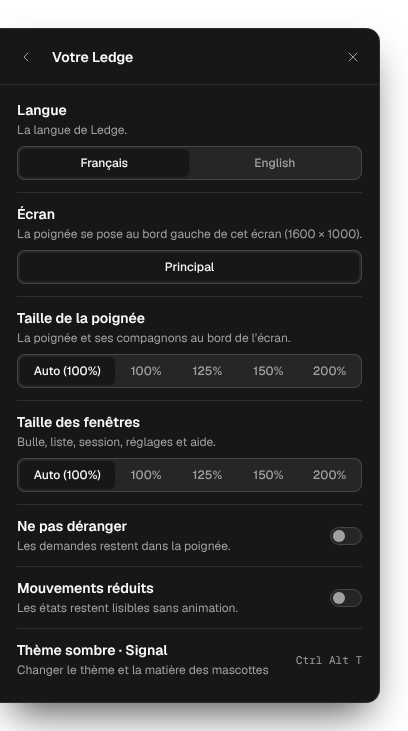
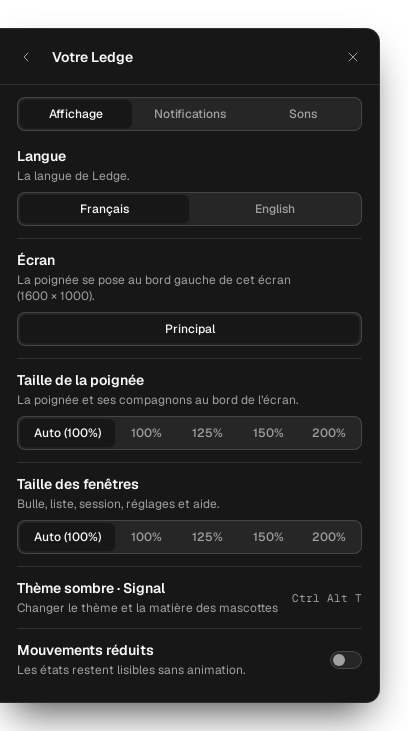
feat(overlay): settings are split into Display, Notifications and Sounds tabs, the last one opened is remembered

diff --git a/apps/overlay/src/surface/SettingsView.tsx b/apps/overlay/src/surface/SettingsView.tsx
@@ -1,10 +1,11 @@
-import type { ReactNode, Ref } from 'react';
+import { useState, type ReactNode, type Ref } from 'react';
 import { transition } from '../motion';
 import { DetailHeader } from './DetailHeader';
 import { UI_SCALES, percent, type ScaleTarget, type UiScale } from '../scale';
 import { useI18n } from '../i18n/lang';
 import { LANGS, type Lang } from '../i18n/messages';
 import { Button } from '../ui/Button';
+import { Tabs, tabIds } from '../ui/Tabs';
 import { CATEGORIES, FINISHED_VALUES, VOLUMES, type FinishedNotify, type SoundPrefs, type SoundPatch } from '../sounds/preferences';
 import { resolveMonitor, type MonitorInfo } from '../monitor';
 
@@ -66,6 +67,14 @@ export function Segmented<T extends string | number>({ name, label, hint, value,
 
 const Row = ({ children }: { children: ReactNode }) => <div style={{ borderBottom: '1px solid var(--sidebar-border)' }}>{children}</div>;
 
+/** The settings sections, one tab each; the last one opened is remembered. */
+export const SETTINGS_TABS = ['display', 'notifications', 'sounds'] as const;
+export type SettingsTab = (typeof SETTINGS_TABS)[number];
+const TAB_KEY = 'ledge.settings.tab';
+const isTab = (v: unknown): v is SettingsTab => (SETTINGS_TABS as readonly unknown[]).includes(v);
+export const loadSettingsTab = (): SettingsTab => { try { const v = localStorage.getItem(TAB_KEY); return isTab(v) ? v : 'display'; } catch { return 'display'; } };
+const saveSettingsTab = (tab: SettingsTab) => { try { localStorage.setItem(TAB_KEY, tab); } catch { /* in-memory only */ } };
+
 /** The Screen group's options: the primary (value `primary`), then the other monitors by their index in the OS order;
  *  a chosen monitor that is not plugged in is one more option, checked, so the choice stays visible. */
 export function monitorOptions(monitors: MonitorInfo[], choice: string | null, t: { primary: string; nth: (n: number) => string; missing: string }): Array<{ value: string; label: string }> {
@@ -84,57 +93,72 @@ export function SettingsView(p: SettingsViewProps) {
   const choice = p.monitor ?? null;
   const chosen = resolveMonitor(choice, monitors);
   const chosenValue = choice !== null && !monitors.some(m => m.id === choice) ? choice : chosen && !chosen.primary ? chosen.id : 'primary';
+  const [tab, setTab] = useState<SettingsTab>(loadSettingsTab);
+  const chooseTab = (next: SettingsTab) => { setTab(next); saveSettingsTab(next); };
+  const tabLabel = { display: t.settings.tabDisplay, notifications: t.settings.tabNotifications, sounds: t.settings.tabSounds } as const;
+  const { tabId, panelId } = tabIds('ledge-settings', tab);
   return (
     <div data-layer="settings" data-delay={enterDelay} inert={!p.visible} style={{ position: 'absolute', inset: 0, display: 'flex', flexDirection: 'column', opacity: p.visible ? 1 : 0, pointerEvents: p.visible ? 'auto' : 'none', transition: transition([['opacity', p.visible ? 'fadeIn' : 'fadeOut', p.visible ? enterDelay : 0]]) }}>
       <DetailHeader title={t.settings.title} onBack={p.onBack} onClose={p.onClose} />
       <div className="ledge-scroll" style={{ overflowY: 'auto', minHeight: 0, overscrollBehavior: 'contain' }}>
-        <div ref={p.contentRef} style={{ display: 'flex', flexDirection: 'column', padding: '4px 17px 12px' }}>
-          <Row><Segmented name="ledge-lang" label={t.lang.label} hint={t.lang.hint} value={lang} onChange={p.onLang} options={LANGS.map(l => ({ value: l, label: t.lang[l] }))} /></Row>
-          {monitors.length > 0 && (
-            <Row><Segmented name="ledge-monitor" label={t.settings.screen} hint={chosen ? t.settings.screenHint(chosen.width, chosen.height) : t.settings.screenHintNone} value={chosenValue}
-              onChange={p.onMonitor ? v => p.onMonitor!(v === 'primary' ? null : v) : undefined}
-              options={monitorOptions(monitors, choice, { primary: t.settings.screenPrimary, nth: t.settings.screenNth, missing: t.settings.screenMissing })} /></Row>
-          )}
-          {(['handle', 'panel'] as const).map(target => (
-            <Row key={target}><Segmented<UiScale> name={`ledge-${target}-scale`} label={target === 'handle' ? t.settings.handleSize : t.settings.windowSize} hint={target === 'handle' ? t.settings.handleSizeHint : t.settings.windowSizeHint}
-              value={p.scales?.[target] ?? 'auto'} onChange={p.onScale ? s => p.onScale!(target, s) : undefined}
-              options={UI_SCALES.map(s => ({ value: s, label: s === 'auto' ? t.settings.auto(percent(p.autoScales?.[target] ?? 1)) : percent(s), wide: s === 'auto' }))} /></Row>
-          ))}
-          <Row><Switch label={t.settings.dnd} hint={t.settings.dndHint} checked={p.dnd} onChange={on => { if (on !== p.dnd) p.onToggleDnd(); }} /></Row>
-          <Row><Switch label={t.settings.reduced} hint={t.settings.reducedHint} checked={p.reduced} onChange={p.onReduced} /></Row>
-          {p.osReduced && !p.reduced && <span style={{ fontSize: 12, lineHeight: '16px', color: 'var(--muted-foreground)', padding: '8px 0' }}>{t.settings.osReduced}</span>}
-          <Row><Segmented<FinishedNotify> name="ledge-finished" label={t.settings.finished} hint={t.settings.finishedHint} value={p.finished} onChange={p.onFinished}
-            options={FINISHED_VALUES.map(v => ({ value: v, label: { both: t.settings.finishedBoth, bubble: t.settings.finishedBubble, sound: t.settings.finishedSound, none: t.settings.finishedNone }[v], wide: v === 'both' }))} /></Row>
-          <Row><Switch label={t.settings.sounds} hint={t.settings.soundsHint} checked={p.sounds.enabled} onChange={on => p.onSounds({ enabled: on })} /></Row>
-          <div data-testid="sound-sections" style={{ opacity: p.sounds.enabled ? 1 : 0.5, transition: transition([['opacity', 'hover']]) }}>
-            <Row>
-              <div style={{ display: 'flex', alignItems: 'flex-end', gap: 8 }}>
-                <div style={{ flexGrow: 1 }}><Segmented name="ledge-volume" label={t.settings.volume} hint={t.settings.volumeHint} value={p.sounds.volume} onChange={v => p.onSounds({ volume: v })}
-                  options={VOLUMES.map(v => ({ value: v, label: { quiet: t.settings.volumeQuiet, normal: t.settings.volumeNormal, loud: t.settings.volumeLoud }[v] }))} /></div>
-                <Button variant="outline" size="sm" onClick={p.onTestSound}>{t.settings.test}</Button>
+        <div ref={p.contentRef} style={{ display: 'flex', flexDirection: 'column', padding: '12px 17px 12px' }}>
+          <Tabs<SettingsTab> id="ledge-settings" label={t.settings.tabs} value={tab} onChange={chooseTab} tabs={SETTINGS_TABS.map(v => ({ value: v, label: tabLabel[v] }))} />
+          <div role="tabpanel" id={panelId} aria-labelledby={tabId} style={{ display: 'flex', flexDirection: 'column', marginTop: 4 }}>
+            {tab === 'display' && <>
+              <Row><Segmented name="ledge-lang" label={t.lang.label} hint={t.lang.hint} value={lang} onChange={p.onLang} options={LANGS.map(l => ({ value: l, label: t.lang[l] }))} /></Row>
+              {monitors.length > 0 && (
+                <Row><Segmented name="ledge-monitor" label={t.settings.screen} hint={chosen ? t.settings.screenHint(chosen.width, chosen.height) : t.settings.screenHintNone} value={chosenValue}
+                  onChange={p.onMonitor ? v => p.onMonitor!(v === 'primary' ? null : v) : undefined}
+                  options={monitorOptions(monitors, choice, { primary: t.settings.screenPrimary, nth: t.settings.screenNth, missing: t.settings.screenMissing })} /></Row>
+              )}
+              {(['handle', 'panel'] as const).map(target => (
+                <Row key={target}><Segmented<UiScale> name={`ledge-${target}-scale`} label={target === 'handle' ? t.settings.handleSize : t.settings.windowSize} hint={target === 'handle' ? t.settings.handleSizeHint : t.settings.windowSizeHint}
+                  value={p.scales?.[target] ?? 'auto'} onChange={p.onScale ? s => p.onScale!(target, s) : undefined}
+                  options={UI_SCALES.map(s => ({ value: s, label: s === 'auto' ? t.settings.auto(percent(p.autoScales?.[target] ?? 1)) : percent(s), wide: s === 'auto' }))} /></Row>
+              ))}
+              <Row>
+                <button type="button" onClick={p.onToggleTheme} disabled={!p.onToggleTheme} style={{ display: 'flex', alignItems: 'center', gap: 12, width: '100%', padding: '12px 0', background: 'transparent', border: 'none', color: 'inherit', textAlign: 'left', cursor: 'pointer' }}>
+                  <span style={{ display: 'flex', flexDirection: 'column', gap: 3, flexGrow: 1 }}>
+                    <span style={{ fontSize: 14, lineHeight: '18px', fontWeight: 600 }}>{light ? t.settings.themeLight : t.settings.themeDark}</span>
+                    <span style={{ fontSize: 12, lineHeight: '16px', color: 'var(--muted-foreground)' }}>{t.settings.themeHint}</span>
+                  </span>
+                  <span className="mono" style={{ fontSize: 11, color: 'var(--muted-foreground)' }}>Ctrl Alt T</span>
+                </button>
+              </Row>
+              <Switch label={t.settings.reduced} hint={t.settings.reducedHint} checked={p.reduced} onChange={p.onReduced} />
+              {p.osReduced && !p.reduced && <span style={{ fontSize: 12, lineHeight: '16px', color: 'var(--muted-foreground)', padding: '0 0 8px' }}>{t.settings.osReduced}</span>}
+            </>}
+            {tab === 'notifications' && <>
+              <Row><Switch label={t.settings.dnd} hint={t.settings.dndHint} checked={p.dnd} onChange={on => { if (on !== p.dnd) p.onToggleDnd(); }} /></Row>
+              <Segmented<FinishedNotify> name="ledge-finished" label={t.settings.finished} hint={t.settings.finishedHint} value={p.finished} onChange={p.onFinished}
+                options={FINISHED_VALUES.map(v => ({ value: v, label: { both: t.settings.finishedBoth, bubble: t.settings.finishedBubble, sound: t.settings.finishedSound, none: t.settings.finishedNone }[v], wide: v === 'both' }))} />
+            </>}
+            {tab === 'sounds' && <>
+              <Row><Switch label={t.settings.sounds} hint={t.settings.soundsHint} checked={p.sounds.enabled} onChange={on => p.onSounds({ enabled: on })} /></Row>
+              <div data-testid="sound-sections" style={{ opacity: p.sounds.enabled ? 1 : 0.5, transition: transition([['opacity', 'hover']]) }}>
+                <Row>
+                  <div style={{ display: 'flex', alignItems: 'flex-end', gap: 8 }}>
+                    <div style={{ flexGrow: 1 }}><Segmented name="ledge-volume" label={t.settings.volume} hint={t.settings.volumeHint} value={p.sounds.volume} onChange={v => p.onSounds({ volume: v })}
+                      options={VOLUMES.map(v => ({ value: v, label: { quiet: t.settings.volumeQuiet, normal: t.settings.volumeNormal, loud: t.settings.volumeLoud }[v] }))} /></div>
+                    <Button variant="outline" size="sm" onClick={p.onTestSound}>{t.settings.test}</Button>
+                  </div>
+                </Row>
+                <Row>
+                  <fieldset style={{ margin: 0, padding: 0, border: 'none' }}>
+                    <legend style={{ padding: '12px 0 4px', fontSize: 14, lineHeight: '18px', fontWeight: 600 }}>{t.settings.playWhen}</legend>
+                    {CATEGORIES.map(c => (
+                      <label key={c} style={{ display: 'flex', alignItems: 'center', gap: 10, height: 32, fontSize: 13, cursor: 'pointer' }}>
+                        <input type="checkbox" checked={p.sounds.categories[c]} onChange={e => p.onSounds({ categories: { [c]: e.target.checked } })} style={{ margin: 0, width: 16, height: 16, accentColor: 'var(--sidebar-primary)' }} />
+                        {t.settings.category[c]}
+                      </label>
+                    ))}
+                  </fieldset>
+                </Row>
+                <Switch label={t.settings.behind} hint={t.settings.behindHint} checked={p.sounds.onlyWhenTerminalBehind} onChange={on => p.onSounds({ onlyWhenTerminalBehind: on })} />
+                <span style={{ display: 'block', fontSize: 12, lineHeight: '16px', color: 'var(--muted-foreground)', padding: '0 0 8px' }}>{t.settings.soundsNote}</span>
               </div>
-            </Row>
-            <Row>
-              <fieldset style={{ margin: 0, padding: 0, border: 'none' }}>
-                <legend style={{ padding: '12px 0 4px', fontSize: 14, lineHeight: '18px', fontWeight: 600 }}>{t.settings.playWhen}</legend>
-                {CATEGORIES.map(c => (
-                  <label key={c} style={{ display: 'flex', alignItems: 'center', gap: 10, height: 32, fontSize: 13, cursor: 'pointer' }}>
-                    <input type="checkbox" checked={p.sounds.categories[c]} onChange={e => p.onSounds({ categories: { [c]: e.target.checked } })} style={{ margin: 0, width: 16, height: 16, accentColor: 'var(--sidebar-primary)' }} />
-                    {t.settings.category[c]}
-                  </label>
-                ))}
-              </fieldset>
-            </Row>
-            <Row><Switch label={t.settings.behind} hint={t.settings.behindHint} checked={p.sounds.onlyWhenTerminalBehind} onChange={on => p.onSounds({ onlyWhenTerminalBehind: on })} /></Row>
-            <span style={{ display: 'block', fontSize: 12, lineHeight: '16px', color: 'var(--muted-foreground)', padding: '8px 0' }}>{t.settings.soundsNote}</span>
+            </>}
           </div>
-          <button type="button" onClick={p.onToggleTheme} disabled={!p.onToggleTheme} style={{ display: 'flex', alignItems: 'center', gap: 12, padding: '12px 0', background: 'transparent', border: 'none', color: 'inherit', textAlign: 'left', cursor: 'pointer' }}>
-            <span style={{ display: 'flex', flexDirection: 'column', gap: 3, flexGrow: 1 }}>
-              <span style={{ fontSize: 14, lineHeight: '18px', fontWeight: 600 }}>{light ? t.settings.themeLight : t.settings.themeDark}</span>
-              <span style={{ fontSize: 12, lineHeight: '16px', color: 'var(--muted-foreground)' }}>{t.settings.themeHint}</span>
-            </span>
-            <span className="mono" style={{ fontSize: 11, color: 'var(--muted-foreground)' }}>Ctrl Alt T</span>
-          </button>
         </div>
       </div>
     </div>

diff --git a/apps/overlay/test/settings.test.tsx b/apps/overlay/test/settings.test.tsx
@@ -1,5 +1,5 @@
 import { describe, it, expect, vi, beforeEach } from 'vitest';
-import { render, screen, fireEvent } from '@testing-library/react';
+import { render, screen, fireEvent, cleanup } from '@testing-library/react';
 import { SettingsView } from '../src/surface/SettingsView';
 import { LangProvider } from '../src/i18n/lang';
 import { DEFAULT_SOUNDS, type SoundPatch } from '../src/sounds/preferences';
@@ -11,16 +11,56 @@ const view = (extra = {}) => {
   return { onFinished, onSounds, onTestSound };
 };
 
+const tab = (name: string) => fireEvent.click(screen.getByRole('tab', { name }));
+
+describe('<SettingsView> tabs', () => {
+  beforeEach(() => localStorage.clear());
+  it('opens on Display: language, screen sizes, theme and motion; the other groups wait in their tabs', () => {
+    view();
+    expect(screen.getByRole('tab', { name: 'Display' })).toHaveAttribute('aria-selected', 'true');
+    const panel = screen.getByRole('tabpanel', { name: 'Display' });
+    expect(panel).toHaveAttribute('id', 'ledge-settings-panel-display');
+    expect(screen.getByRole('group', { name: 'Language' })).toBeInTheDocument();
+    expect(screen.getByRole('group', { name: 'Handle size' })).toBeInTheDocument();
+    expect(screen.getByRole('button', { name: /theme/ })).toBeInTheDocument();
+    expect(screen.getByRole('switch', { name: 'Reduced motion' })).toBeInTheDocument();
+    expect(screen.queryByRole('switch', { name: 'Do not disturb' })).toBeNull();
+    expect(screen.queryByRole('switch', { name: 'Sounds' })).toBeNull();
+    tab('Notifications');
+    expect(screen.getByRole('switch', { name: 'Do not disturb' })).toBeInTheDocument();
+    expect(screen.getByRole('group', { name: 'When a bot finishes' })).toBeInTheDocument();
+    expect(screen.queryByRole('group', { name: 'Language' })).toBeNull();
+    tab('Sounds');
+    expect(screen.getByRole('switch', { name: 'Sounds' })).toBeInTheDocument();
+    expect(screen.getByRole('button', { name: 'Test' })).toBeInTheDocument();
+    expect(screen.queryByRole('switch', { name: 'Do not disturb' })).toBeNull();
+  });
+  it('the chosen tab is remembered for the next opening; a stale value falls back to Display', () => {
+    view();
+    tab('Sounds');
+    expect(localStorage.getItem('ledge.settings.tab')).toBe('sounds');
+    cleanup();
+    view();
+    expect(screen.getByRole('tab', { name: 'Sounds' })).toHaveAttribute('aria-selected', 'true');
+    cleanup();
+    localStorage.setItem('ledge.settings.tab', 'nope');
+    view();
+    expect(screen.getByRole('tab', { name: 'Display' })).toHaveAttribute('aria-selected', 'true');
+  });
+});
+
 describe('<SettingsView> notifications and sounds', () => {
   beforeEach(() => localStorage.clear());
   it('offers the four finished modes and reports a choice', () => {
     const { onFinished } = view();
+    tab('Notifications');
     expect(screen.getByRole('radio', { name: 'Bubble and sound' })).toBeChecked();
     fireEvent.click(screen.getByRole('radio', { name: 'Handle only' }));
     expect(onFinished).toHaveBeenCalledWith('none');
   });
   it('the Sounds switch, the volume, the categories and the terminal rule each send one patch', () => {
     const { onSounds, onTestSound } = view();
+    tab('Sounds');
     fireEvent.click(screen.getByRole('switch', { name: 'Sounds' }));
     expect(onSounds).toHaveBeenLastCalledWith({ enabled: false });
     fireEvent.click(screen.getByRole('radio', { name: 'Loud' }));
@@ -34,6 +74,7 @@ describe('<SettingsView> notifications and sounds', () => {
   });
   it('with sounds off the sound sections are dimmed but still reachable', () => {
     view({ sounds: { ...DEFAULT_SOUNDS, enabled: false } });
+    tab('Sounds');
     expect(screen.getByTestId('sound-sections')).toHaveStyle({ opacity: '0.5' });
     expect(screen.getByRole('radio', { name: 'Loud' })).not.toBeDisabled();
   });

diff --git a/apps/overlay/test/tabs.test.tsx b/apps/overlay/test/tabs.test.tsx
@@ -1,0 +1,53 @@
+import { describe, it, expect, vi } from 'vitest';
+import { render, screen, fireEvent } from '@testing-library/react';
+import { Tabs } from '../src/ui/Tabs';
+
+const TABS = [{ value: 'a', label: 'Alpha' }, { value: 'b', label: 'Beta' }, { value: 'c', label: 'Gamma' }] as const;
+type V = (typeof TABS)[number]['value'];
+const view = (value: V = 'a') => {
+  const onChange = vi.fn<(v: V) => void>();
+  render(<Tabs<V> id="t" label="Sections" value={value} tabs={TABS} onChange={onChange} />);
+  return onChange;
+};
+
+describe('<Tabs>', () => {
+  it('is a labelled tablist whose selected tab alone is in the tab order and points at its panel', () => {
+    view('b');
+    expect(screen.getByRole('tablist', { name: 'Sections' })).toBeInTheDocument();
+    const beta = screen.getByRole('tab', { name: 'Beta' });
+    expect(beta).toHaveAttribute('aria-selected', 'true');
+    expect(beta).toHaveAttribute('tabindex', '0');
+    expect(beta).toHaveAttribute('id', 't-tab-b');
+    expect(beta).toHaveAttribute('aria-controls', 't-panel-b');
+    expect(screen.getByRole('tab', { name: 'Alpha' })).toHaveAttribute('tabindex', '-1');
+    expect(screen.getByRole('tab', { name: 'Alpha' })).toHaveAttribute('aria-selected', 'false');
+  });
+  it('a click chooses a tab', () => {
+    const onChange = view();
+    fireEvent.click(screen.getByRole('tab', { name: 'Gamma' }));
+    expect(onChange).toHaveBeenCalledWith('c');
+  });
+  it('arrows move and wrap, Home and End jump; the newly chosen tab takes focus', () => {
+    const onChange = view('a');
+    const alpha = screen.getByRole('tab', { name: 'Alpha' });
+    alpha.focus();
+    fireEvent.keyDown(alpha, { key: 'ArrowRight' });
+    expect(onChange).toHaveBeenLastCalledWith('b');
+    expect(document.activeElement).toBe(screen.getByRole('tab', { name: 'Beta' }));
+    fireEvent.keyDown(alpha, { key: 'ArrowLeft' });
+    expect(onChange).toHaveBeenLastCalledWith('c');
+    fireEvent.keyDown(alpha, { key: 'End' });
+    expect(onChange).toHaveBeenLastCalledWith('c');
+    fireEvent.keyDown(screen.getByRole('tab', { name: 'Gamma' }), { key: 'ArrowRight' });
+    expect(onChange).toHaveBeenLastCalledWith('a');
+    fireEvent.keyDown(alpha, { key: 'Home' });
+    expect(onChange).toHaveBeenLastCalledWith('a');
+    expect(onChange).toHaveBeenCalledTimes(5);
+  });
+  it('other keys are left alone', () => {
+    const onChange = view();
+    fireEvent.keyDown(screen.getByRole('tab', { name: 'Alpha' }), { key: 'Tab' });
+    fireEvent.keyDown(screen.getByRole('tab', { name: 'Alpha' }), { key: 'ArrowDown' });
+    expect(onChange).not.toHaveBeenCalled();
+  });
+});

diff --git a/apps/overlay/src/ui/Tabs.tsx b/apps/overlay/src/ui/Tabs.tsx
@@ -1,0 +1,33 @@
+import { transition } from '../motion';
+
+export interface TabItem<T extends string> { value: T; label: string }
+
+/** The ids a tab and its panel share: the panel renders with `id={panelId}` and `aria-labelledby={tabId}`. */
+export const tabIds = (id: string, value: string) => ({ tabId: `${id}-tab-${value}`, panelId: `${id}-panel-${value}` });
+
+/** A row of tabs in the segmented look (Settings): one tab in the tab order, Left/Right wrap, Home/End jump, and a
+ *  tab chosen from the keyboard takes focus. The caller renders the chosen panel with `tabIds`. */
+export function Tabs<T extends string>({ id, label, value, tabs, onChange }: { id: string; label: string; value: T; tabs: ReadonlyArray<TabItem<T>>; onChange: (v: T) => void }) {
+  const choose = (v: T) => { onChange(v); document.getElementById(tabIds(id, v).tabId)?.focus(); };
+  const onKeyDown = (e: React.KeyboardEvent, i: number) => {
+    const n = tabs.length;
+    const to = e.key === 'ArrowRight' ? (i + 1) % n : e.key === 'ArrowLeft' ? (i + n - 1) % n : e.key === 'Home' ? 0 : e.key === 'End' ? n - 1 : -1;
+    if (to < 0) return;
+    e.preventDefault();
+    choose(tabs[to]!.value);
+  };
+  return (
+    <div role="tablist" aria-label={label} style={{ display: 'flex', padding: 2, gap: 2, borderRadius: 'var(--radius-md)', background: 'var(--muted)', border: '1px solid var(--input)' }}>
+      {tabs.map((tab, i) => {
+        const on = tab.value === value;
+        const { tabId, panelId } = tabIds(id, tab.value);
+        return (
+          <button key={tab.value} type="button" role="tab" id={tabId} aria-selected={on} aria-controls={panelId} tabIndex={on ? 0 : -1} onClick={() => onChange(tab.value)} onKeyDown={e => onKeyDown(e, i)}
+            style={{ flex: '1 1 0', height: 28, padding: 0, border: 'none', borderRadius: 'calc(var(--radius-md) - 2px)', fontFamily: 'inherit', fontSize: 12, fontWeight: 500, whiteSpace: 'nowrap', cursor: 'pointer', background: on ? 'var(--sidebar)' : 'transparent', color: on ? 'var(--sidebar-foreground)' : 'var(--muted-foreground)', boxShadow: on ? '0 1px 2px rgb(0 0 0 / .2)' : 'none', transition: transition([['background-color', 'hover'], ['color', 'hover']]) }}>
+            {tab.label}
+          </button>
+        );
+      })}
+    </div>
+  );
+}

diff --git a/apps/overlay/src/i18n/messages.ts b/apps/overlay/src/i18n/messages.ts
@@ -117,7 +117,7 @@ const fr = {
     answer: (opt: string) => `Répondre : ${opt}`, firstOption: 'première option'
   },
   settings: {
-    title: 'Votre Ledge', handleSize: 'Taille de la poignée', handleSizeHint: 'La poignée et ses compagnons au bord de l’écran.', windowSize: 'Taille des fenêtres', windowSizeHint: 'Bulle, liste, session, réglages et aide.', auto: (p: string) => `Auto (${p})`,
+    title: 'Votre Ledge', tabs: 'Sections des réglages', tabDisplay: 'Affichage', tabNotifications: 'Notifications', tabSounds: 'Sons', handleSize: 'Taille de la poignée', handleSizeHint: 'La poignée et ses compagnons au bord de l’écran.', windowSize: 'Taille des fenêtres', windowSizeHint: 'Bulle, liste, session, réglages et aide.', auto: (p: string) => `Auto (${p})`,
     screen: 'Écran', screenHint: (w: number, h: number) => `La poignée se pose au bord gauche de cet écran (${w}\u00a0×\u00a0${h}).`, screenHintNone: 'La poignée se pose au bord gauche de l’écran principal.',
     screenPrimary: 'Principal', screenNth: (n: number) => `Écran ${n}`, screenMissing: 'Débranché',
     dnd: 'Ne pas déranger', dndHint: 'Les demandes restent dans la poignée.',
@@ -255,7 +255,7 @@ const en: Messages = {
     answer: (opt: string) => `Answer: ${opt}`, firstOption: 'first option'
   },
   settings: {
-    title: 'Your Ledge', handleSize: 'Handle size', handleSizeHint: 'The handle and its companions on the screen edge.', windowSize: 'Window size', windowSizeHint: 'Bubble, list, session, settings and help.', auto: (p: string) => `Auto (${p})`,
+    title: 'Your Ledge', tabs: 'Settings sections', tabDisplay: 'Display', tabNotifications: 'Notifications', tabSounds: 'Sounds', handleSize: 'Handle size', handleSizeHint: 'The handle and its companions on the screen edge.', windowSize: 'Window size', windowSizeHint: 'Bubble, list, session, settings and help.', auto: (p: string) => `Auto (${p})`,
     screen: 'Screen', screenHint: (w: number, h: number) => `The handle sits on the left edge of this screen (${w}\u00a0×\u00a0${h}).`, screenHintNone: 'The handle sits on the left edge of the primary screen.',
     screenPrimary: 'Primary', screenNth: (n: number) => `Screen ${n}`, screenMissing: 'Unplugged',
     dnd: 'Do not disturb', dndHint: 'New asks stay in the handle.',

diff --git a/apps/overlay/test/prototype-parity.test.tsx b/apps/overlay/test/prototype-parity.test.tsx
@@ -489,8 +489,10 @@ describe('carried items', () => {
     expect(surface()).toHaveStyle({ width: '380px' });
     expect(document.activeElement).toHaveAccessibleName('Back to sessions');
     const view = layer('settings');
+    fireEvent.click(within(view).getByRole('tab', { name: 'Notifications' }));
     fireEvent.click(within(view).getByRole('switch', { name: /Do not disturb/ }));
     for (const b of within(list).getAllByRole('button', { name: 'Do not disturb', hidden: true })) expect(b).toHaveAttribute('aria-pressed', 'true');
+    fireEvent.click(within(view).getByRole('tab', { name: 'Display' }));
     expect(within(view).getByRole('button', { name: /Dark theme · Signal/ })).toBeInTheDocument();
     fireEvent.click(within(view).getByRole('button', { name: /theme/ }));
     expect(within(view).getByRole('button', { name: /Light theme · Pebble/ })).toBeInTheDocument();

diff --git a/docs/tour.md b/docs/tour.md
@@ -98,9 +98,9 @@ A session started with plain `claude`, without the launcher, is still visible th
 
 ## Settings
 
-Language, the screen the handle sits on, the size of the handle and of the windows (auto or 100 to 200 percent), do-not-disturb, reduced motion, when a bot finishes (bubble and sound, bubble, sound, or handle only), sounds, and the theme (`Ctrl+Alt+T`).
+Three tabs, the last one opened remembered. Display: language, the screen the handle sits on, the size of the handle and of the windows (auto or 100 to 200 percent), the theme (`Ctrl+Alt+T`) and reduced motion. Notifications: do-not-disturb and when a bot finishes (bubble and sound, bubble, sound, or handle only). Sounds: everything below.
 
-<img src="screens/settings-dark.png" alt="Settings: language, screen, handle size, window size, do not disturb, reduced motion, when a bot finishes, sounds, theme" width="408">
+<img src="screens/settings-dark.png" alt="Settings, Display tab: language, screen, handle size, window size, theme, reduced motion" width="408">
 
 **Sounds.** Eight short synthesised cues, one family: asks rise or knock, results fall, your own decisions tick. Settings › Sounds has the switch, the volume with a Test button, one checkbox per category, and "Only when the terminal is behind", which keeps Ledge quiet while Windows Terminal is the front window. Do not disturb silences everything.
 
